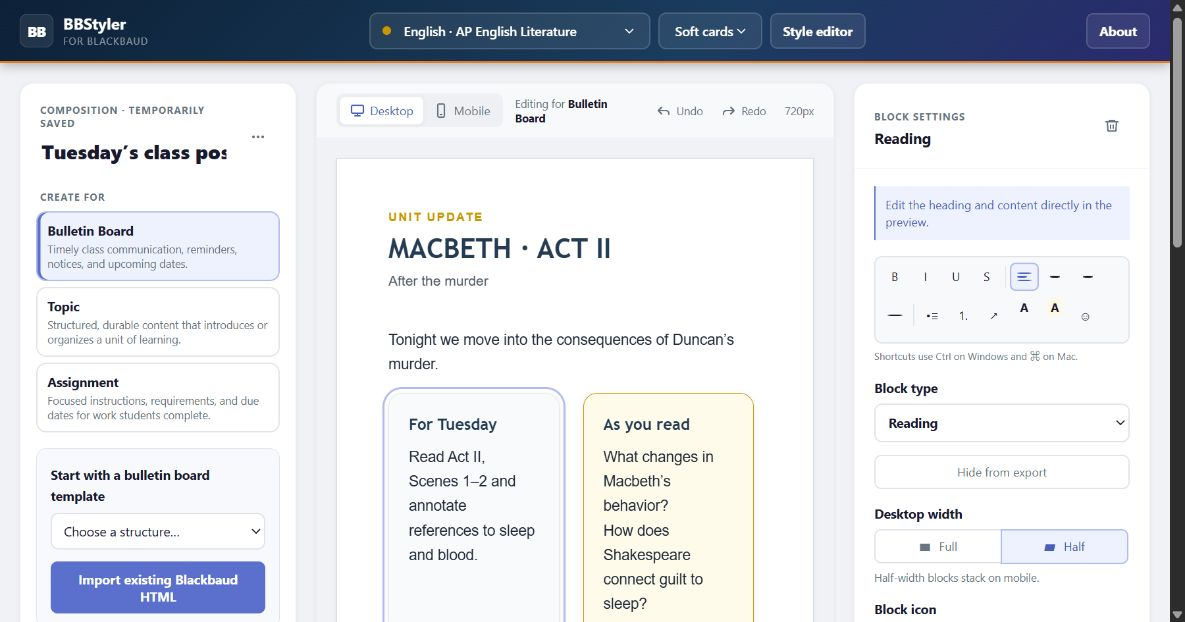
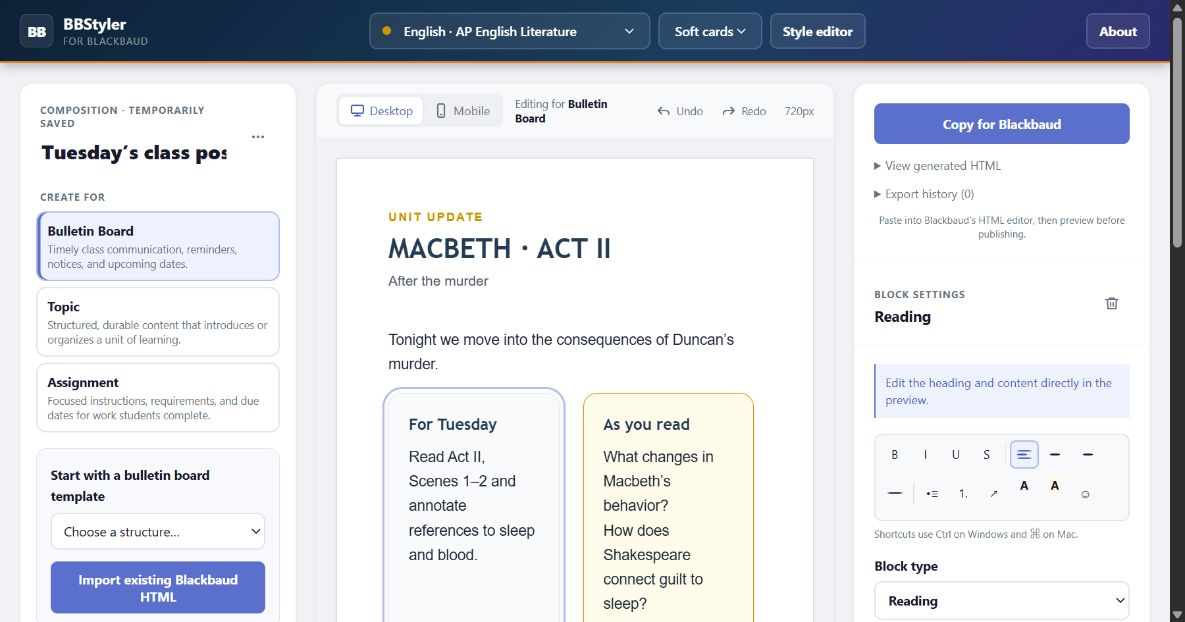
Move Blackbaud export action above the fold

diff --git a/ui/styles.css b/ui/styles.css
@@ -217,6 +217,7 @@ button:disabled{cursor:not-allowed;opacity:.5}
 
 /* Export */
 .export{padding:20px}
+.inspector>.export{border-bottom:1px solid #eef0f4}
 .copy{width:100%;padding:12px;border-radius:7px;background:#5b6fcc;color:#fff;font-size:13px;font-weight:700;transition:transform .1s,background .15s}
 .copy:hover{background:#4a5fbb}
 .copy:active{transform:scale(.95)}
@@ -309,9 +310,10 @@ button:disabled{cursor:not-allowed;opacity:.5}
   .block-row{grid-template-columns:minmax(0,1fr)}
   .block-actions{position:absolute;right:6px;top:6px;padding:2px;border-radius:7px;background:#fff;box-shadow:0 1px 4px rgba(0,0,0,.07)}
   .block-row:hover .block-select,.block-row.selected .block-select{padding-right:88px}
-  .inspector{display:grid;grid-template-columns:repeat(3,minmax(0,1fr))}
-  .inspector-title{grid-column:1/-1}
-  .inspector .fields,.inspector .checks{border-right:1px solid #eef0f4;border-bottom:0}
+  .inspector{display:grid;grid-template-columns:repeat(2,minmax(0,1fr))}
+  .inspector>.export,.inspector-title{grid-column:1/-1}
+  .inspector .fields{border-right:1px solid #eef0f4}
+  .inspector .fields,.inspector .checks{border-bottom:0}
   .class-picker:first-child select{max-width:150px}
 }
 

diff --git a/ui/composer.tsx b/ui/composer.tsx
@@ -267,7 +267,7 @@ export function Composer() {
         <BlockList c={c} />
       </aside>
       <section className="stage" aria-label="Post preview"><Preview c={c} device={device} onDevice={setDevice} /></section>
-      <aside className="inspector"><BlockFields c={c} /><Checks c={c} /><ExportPanel c={c} label="Copy for Blackbaud" hint="Paste into Blackbaud’s HTML editor, then preview before publishing." /></aside>
+      <aside className="inspector"><ExportPanel c={c} label="Copy for Blackbaud" hint="Paste into Blackbaud’s HTML editor, then preview before publishing." /><BlockFields c={c} /><Checks c={c} /></aside>
     </section>
     <footer className="app-footer">
       <div className="footer-grid">

diff --git a/CHANGELOG.md b/CHANGELOG.md
@@ -20,6 +20,8 @@ All notable changes to this project are documented here. Versions follow
   surfaces, including rich formatting, alignment, nested lists, and flex wrap.
 - Kept half-width cards paired in BBStyler's narrower desktop preview while
   preserving full-width stacking in the mobile preview.
+- Moved the primary Copy for Blackbaud action to the top of the right-hand
+  column so it remains visible before block settings and compatibility details.
 - Normalized strikethrough to Blackbaud's stored line-through span and added
   measured semantic headings to collapsible sections.
 
